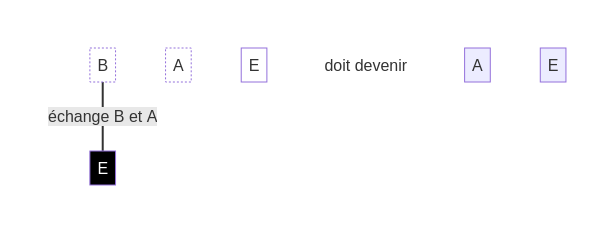
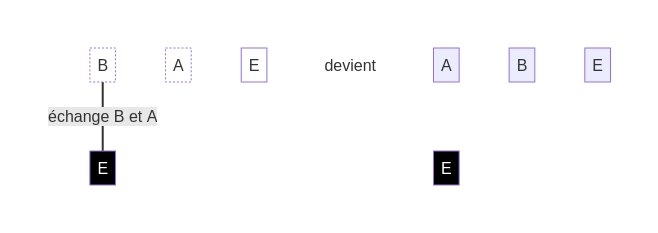
changed again

diff --git a/5.md b/5.md
@@ -4,25 +4,6 @@ layout: default
 
 <div markdown="1">
 
-## Le savais-tu ?
-
-Chaque face des **dés blancs** représente un élément de code, ou une instruction, que tu retrouveras dans la programmation. Voici quelques exemples :
-
-* **"A" - Afficher** : Cette instruction permet de montrer un message ou un résultat à l'écran. C'est comme dire à l'ordinateur de "parler" ou de "montrer" quelque chose.
-  - Exemple : `afficher("Hello, World!")` montrera le message "Hello, World!" à l'écran.
-* **"E" - Expression** : Une expression est une combinaison de valeurs et d'opérateurs qui produit une autre valeur. C'est comme une petite calculatrice intégrée dans le programme.
-  - Exemple : `5 + 3` est une expression qui donne le résultat 8.
-* **"B" - Bug** : Un bug est une erreur dans le code qui empêche le programme de fonctionner correctement. Découvrir et corriger des bugs est une partie importante de la programmation.
-
-Les **dés blancs** forment une ligne de code simplifiée, appelée **pseudo-code**. Le pseudo-code utilise des mots simples et des concepts pour expliquer ce que fait un programme, sans entrer dans les détails techniques complexes. Par exemple, `afficher(expression)` pourrait se traduire par :
-
-- `afficher("Hello, World!")` pour montrer le message "Hello World!".
-- `afficher(2 + 2)` pour afficher le résultat de l'addition, qui est 4.
-
-</div>
-
-<div markdown="1">
-
 Les erreurs ont une mauvaise réputation, mais elles t'apprendront beaucoup de choses.
 
 ![](assets/2.png)
@@ -40,6 +21,17 @@ Les erreurs ont une mauvaise réputation, mais elles t'apprendront beaucoup de c
 
 <img src="assets/3s.png" alt="">
 </details>
+
+</div>
+
+<div markdown="1">
+
+## Code et pseudo-code
+
+Les **dés blancs** forment une ligne de code simplifiée, appelée **pseudo-code**. Le pseudo-code utilise des mots simples et des concepts pour expliquer ce que fait un programme, sans entrer dans les détails techniques complexes. Par exemple, `afficher(expression)` pourrait se traduire par :
+
+- `afficher("Hello, World!")` pour montrer le message "Hello World!".
+- `afficher(2 + 2)` pour afficher le résultat de l'addition, qui est 4.
 
 </div>
 

diff --git a/4.md b/4.md
@@ -6,15 +6,25 @@ layout: default
 
 **EH Grace Hopper**
 
-</div>
-
-<div markdown="1">
-
 Bonjour, je suis Grace Hopper, pionnière de la programmation informatique. Dans ma carrière, j'ai toujours cherché à rendre les choses plus simples. Tu sais, le premier compilateur est né de cette vision.
 
 Mon but ici est de te montrer comment les **défis** de codage peuvent être transformés en opportunités d'apprentissage passionnantes.
 
 N'oublie jamais : la créativité consiste à découvrir de nouvelles façons de résoudre des problèmes.
+
+</div>
+
+<div markdown="1">
+
+## Le savais-tu ?
+
+Chaque face des **dés blancs** représente un élément de code, ou une instruction, que tu retrouveras dans la programmation. Voici quelques exemples :
+
+* **"A" - Afficher** : Cette instruction permet de montrer un message ou un résultat à l'écran. C'est comme dire à l'ordinateur de "parler" ou de "montrer" quelque chose.
+  - Exemple : `afficher("Hello, World!")` montrera le message "Hello, World!" à l'écran.
+* **"E" - Expression** : Une expression est une combinaison de valeurs et d'opérateurs qui produit une autre valeur. C'est comme une petite calculatrice intégrée dans le programme.
+  - Exemple : `5 + 3` est une expression qui donne le résultat 8.
+* **"B" - Bug** : Un bug est une erreur dans le code qui empêche le programme de fonctionner correctement. Découvrir et corriger des bugs est une partie importante de la programmation.
 
 </div>
 

diff --git a/1.md b/1.md
@@ -8,7 +8,7 @@ layout: default
 
 Chaque **défi** commence avec des **dés blancs**. Ton objectif est de les transformer pour atteindre la solution demandée. Voici comment ça fonctionne :
 
-![](assets/cj1.png)
+![](assets/a.png)
 
 Les **dés noirs** sont utilisés pour changer les **dés blancs**. Place un **dé noir** sous chaque dé blanc pour :
 
@@ -29,10 +29,8 @@ Les **dés noirs** sont utilisés pour changer les **dés blancs**. Place un **d
 
 Voici les deux premiers effets des **dés noirs** :
 
-- "A" - Ajouter : Ajoute un nouveau **dé blanc** avec la face de ton choix. Si besoin, décale les **dés blancs** pour faire de la place.  
-    Voir en vidéo : http://youtu.be/xxxxxx ![QR Code](https://via.placeholder.com/50)  
+- "A" - Ajouter : Ajoute un nouveau **dé blanc** avec la face de ton choix. Si besoin, décale les **dés blancs** pour faire de la place.
 - "T" - Tourner : Change la face du **dé blanc**. Le dé doit changer de face.
-    Voir en vidéo : http://youtu.be/xxxxxx ![QR Code](https://via.placeholder.com/50)  
 
 </div>
 

diff --git a/10.md b/10.md
@@ -6,16 +6,11 @@ layout: default
 
 ## Nouvelle action : Échanger
 
-* "E" - Échanger : Échange le **dé blanc** avec le dé à sa droite.  
-    Voir en vidéo : http://youtu.be/xxxxxx ![QR Code](https://via.placeholder.com/50)  
+* "E" - Échanger : Échange le **dé blanc** avec le dé à sa droite.
 
-Dans cet exemple de **défi** :
+Dans cet exemple de **défi**, l'action "E" - Échanger te permet d'intervertir les deux **dés blancs** "B" et "A" :
 
 ![](assets/e1.png)
-
-L'action "E" - Échanger te permet d'intervertir les deux **dés blancs** "B" et "A" :
-
-![](assets/e2.png)
 
 </div>
 
@@ -27,7 +22,7 @@ Coming soon
 
 </div>
 
-<div markdown="1" style="grid-column: 1 / -1; display: flex; justify-content: start">
+<div markdown="1" style="grid-column: 1 / -1; display: flex; justify-content: space-between">
 
 [retour](./9)
 

diff --git a/6.md b/6.md
@@ -12,14 +12,13 @@ Voici comment utiliser l'action "S" - Supprimer :
 
 ![](assets/s1.png)
 
-L'action "S" - Supprimer te permet de retirer le **dé blanc** "B". Le **dé blanc** "E" est décalé pour prendre sa place.  
-    Voir en vidéo : http://youtu.be/xxxxxx ![QR Code](https://via.placeholder.com/50)  
+L'action "S" - Supprimer te permet de retirer le **dé blanc** "B". Le **dé blanc** "E" est décalé pour prendre sa place.
 
 </div>
 
 <div markdown="1">
 
-N'oublie pas, chaque erreur corrigée est une étape de plus vers la maîtrise de la programmation ! Voici quelques **défis** pour tester cette action :
+N'oublie pas, chaque code corrigé est une étape de plus vers la maîtrise de la programmation !
 
 ![](assets/4.png)
 
